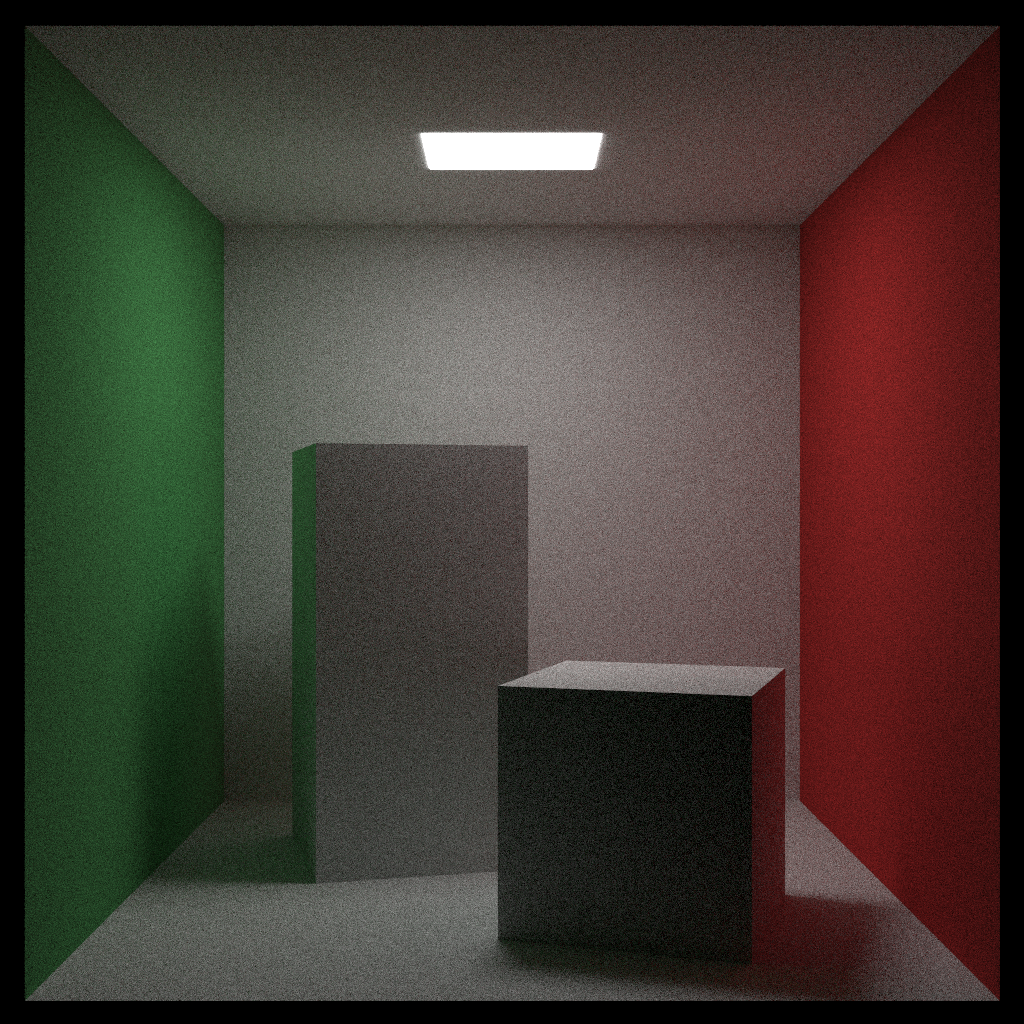
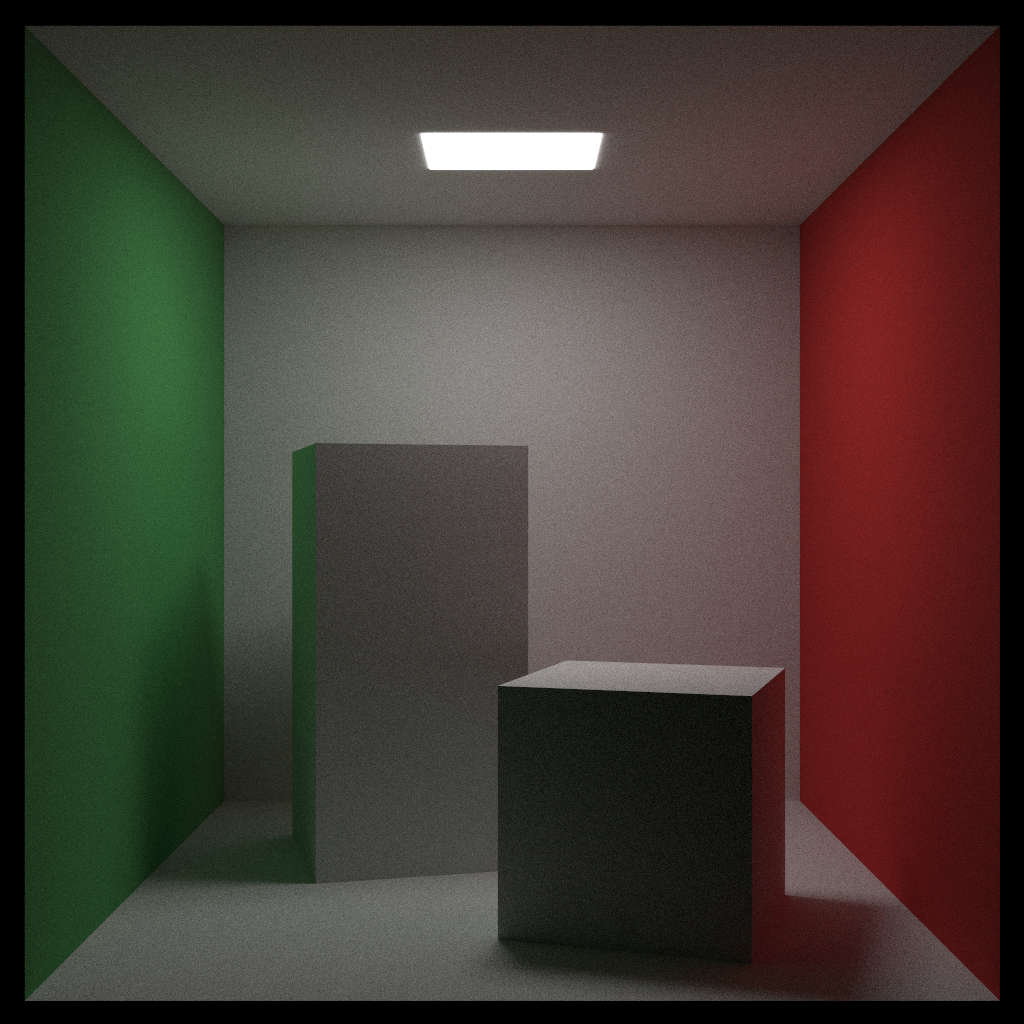
examples: move cornell box to separate file

diff --git a/src/scene/examples/next_week.rs b/src/scene/examples/next_week.rs
@@ -1,6 +1,6 @@
 use crate::{
     material::{Diffuse, DiffuseMethod, Light, Metal},
-    object::{BbObject, Cuboid, RectXY, RectXZ, RectYZ, RotateZX, Sphere, Translate},
+    object::{BbObject, RectXY, RectXZ, RectYZ, Sphere},
     scene::{camera::Camera, session::RenderSession, Scene},
     texture::{Checker, PngTexture, Solid},
     vec3::{Coord, RelColor},
@@ -109,83 +109,6 @@ pub fn rect_light() -> BvhSession {
                 0.,
             ),
             "rect_light",
-        ),
-        false,
-    );
-}
-
-pub fn cornell_box() -> BvhSession {
-    let red = Diffuse::new(Solid::new(0.65, 0.05, 0.05), DiffuseMethod::Lambertian);
-    let white = Diffuse::new(Solid::new(0.73, 0.73, 0.73), DiffuseMethod::Lambertian);
-    let green = Diffuse::new(Solid::new(0.12, 0.45, 0.15), DiffuseMethod::Lambertian);
-    let light = Light::new(Solid::new(15., 15., 15.));
-
-    let mut list = Vec::<Box<dyn BbObject>>::new();
-    list.push(Box::new(RectYZ::new((0., 0.), (555., 555.), 555., green)));
-    list.push(Box::new(RectYZ::new((0., 0.), (555., 555.), 0., red)));
-    list.push(Box::new(RectXZ::new(
-        (0., 0.),
-        (555., 555.),
-        0.,
-        white.clone(),
-    )));
-    list.push(Box::new(RectXZ::new(
-        (0., 0.),
-        (555., 555.),
-        555.,
-        white.clone(),
-    )));
-    list.push(Box::new(RectXY::new(
-        (0., 0.),
-        (555., 555.),
-        555.,
-        white.clone(),
-    )));
-
-    list.push(Box::new(RectXZ::new(
-        (213., 227.),
-        (343., 332.),
-        554.,
-        light,
-    )));
-
-    let side_material_gen =
-        |_n| Diffuse::new(Solid::new(0.73, 0.73, 0.73), DiffuseMethod::Lambertian);
-
-    let box1 = Cuboid::new(
-        Coord::new(0., 0., 0.),
-        Coord::new(165., 330., 165.),
-        side_material_gen.clone(),
-    );
-    let box1 = RotateZX::new(box1, 15.);
-    let box1 = Translate::new(box1, Coord::new(265., 0., 295.));
-    list.push(Box::new(box1));
-
-    let box2 = Cuboid::new(
-        Coord::new(0., 0., 0.),
-        Coord::new(165., 165., 165.),
-        side_material_gen.clone(),
-    );
-    let box2 = RotateZX::new(box2, -18.);
-    let box2 = Translate::new(box2, Coord::new(130., 0., 65.));
-    list.push(Box::new(box2));
-
-    return BvhSession::new(
-        1024,
-        50,
-        32,
-        Scene::new(
-            Bvh::new(list),
-            Camera::new(
-                1.,
-                40.,
-                Coord::new(278., 278., -800.),
-                Coord::new(278., 278., 0.),
-                Camera::WORLD_UP,
-                0.,
-                0.,
-            ),
-            "cornell_box",
         ),
         false,
     );

diff --git a/src/scene/examples/cornell_box.rs b/src/scene/examples/cornell_box.rs
@@ -1,0 +1,87 @@
+use crate::{
+    material::{Diffuse, DiffuseMethod, Light},
+    object::{BbObject, Cuboid, RectXY, RectXZ, RectYZ, RotateZX, Translate},
+    scene::{camera::Camera, session::RenderSession, Scene},
+    texture::{Solid},
+    vec3::{Coord},
+    world::Bvh,
+};
+
+type BvhSession = RenderSession<'static, Bvh>;
+
+pub fn cornell_box(quality: u32) -> BvhSession {
+    let red = Diffuse::new(Solid::new(0.65, 0.05, 0.05), DiffuseMethod::Lambertian);
+    let white = Diffuse::new(Solid::new(0.73, 0.73, 0.73), DiffuseMethod::Lambertian);
+    let green = Diffuse::new(Solid::new(0.12, 0.45, 0.15), DiffuseMethod::Lambertian);
+    let light = Light::new(Solid::new(15., 15., 15.));
+
+    let mut list = Vec::<Box<dyn BbObject>>::new();
+    list.push(Box::new(RectYZ::new((0., 0.), (555., 555.), 555., green)));
+    list.push(Box::new(RectYZ::new((0., 0.), (555., 555.), 0., red)));
+    list.push(Box::new(RectXZ::new(
+        (0., 0.),
+        (555., 555.),
+        0.,
+        white.clone(),
+    )));
+    list.push(Box::new(RectXZ::new(
+        (0., 0.),
+        (555., 555.),
+        555.,
+        white.clone(),
+    )));
+    list.push(Box::new(RectXY::new(
+        (0., 0.),
+        (555., 555.),
+        555.,
+        white.clone(),
+    )));
+
+    list.push(Box::new(RectXZ::new(
+        (213., 227.),
+        (343., 332.),
+        554.,
+        light,
+    )));
+
+    let side_material_gen =
+        |_n| Diffuse::new(Solid::new(0.73, 0.73, 0.73), DiffuseMethod::Lambertian);
+
+    let box1 = Cuboid::new(
+        Coord::new(0., 0., 0.),
+        Coord::new(165., 330., 165.),
+        side_material_gen.clone(),
+    );
+    let box1 = RotateZX::new(box1, 15.);
+    let box1 = Translate::new(box1, Coord::new(265., 0., 295.));
+    list.push(Box::new(box1));
+
+    let box2 = Cuboid::new(
+        Coord::new(0., 0., 0.),
+        Coord::new(165., 165., 165.),
+        side_material_gen.clone(),
+    );
+    let box2 = RotateZX::new(box2, -18.);
+    let box2 = Translate::new(box2, Coord::new(130., 0., 65.));
+    list.push(Box::new(box2));
+
+    return BvhSession::new(
+        1024,
+        50,
+        quality,
+        Scene::new(
+            Bvh::new(list),
+            Camera::new(
+                1.,
+                40.,
+                Coord::new(278., 278., -800.),
+                Coord::new(278., 278., 0.),
+                Camera::WORLD_UP,
+                0.,
+                0.,
+            ),
+            "cornell_box",
+        ),
+        false,
+    );
+}

diff --git a/src/main.rs b/src/main.rs
@@ -10,5 +10,5 @@ mod world;
 mod texture;
 
 fn main() {
-    render::render(scene::examples::cornell_box()).unwrap();
+    render::render(scene::examples::cornell_box(64)).unwrap();
 }

diff --git a/src/scene/examples/mod.rs b/src/scene/examples/mod.rs
@@ -1,7 +1,9 @@
 mod next_week;
 mod weekend;
 mod weekend_final;
+mod cornell_box;
 
 pub use next_week::*;
 pub use weekend::*;
 pub use weekend_final::*;
+pub use cornell_box::*;
